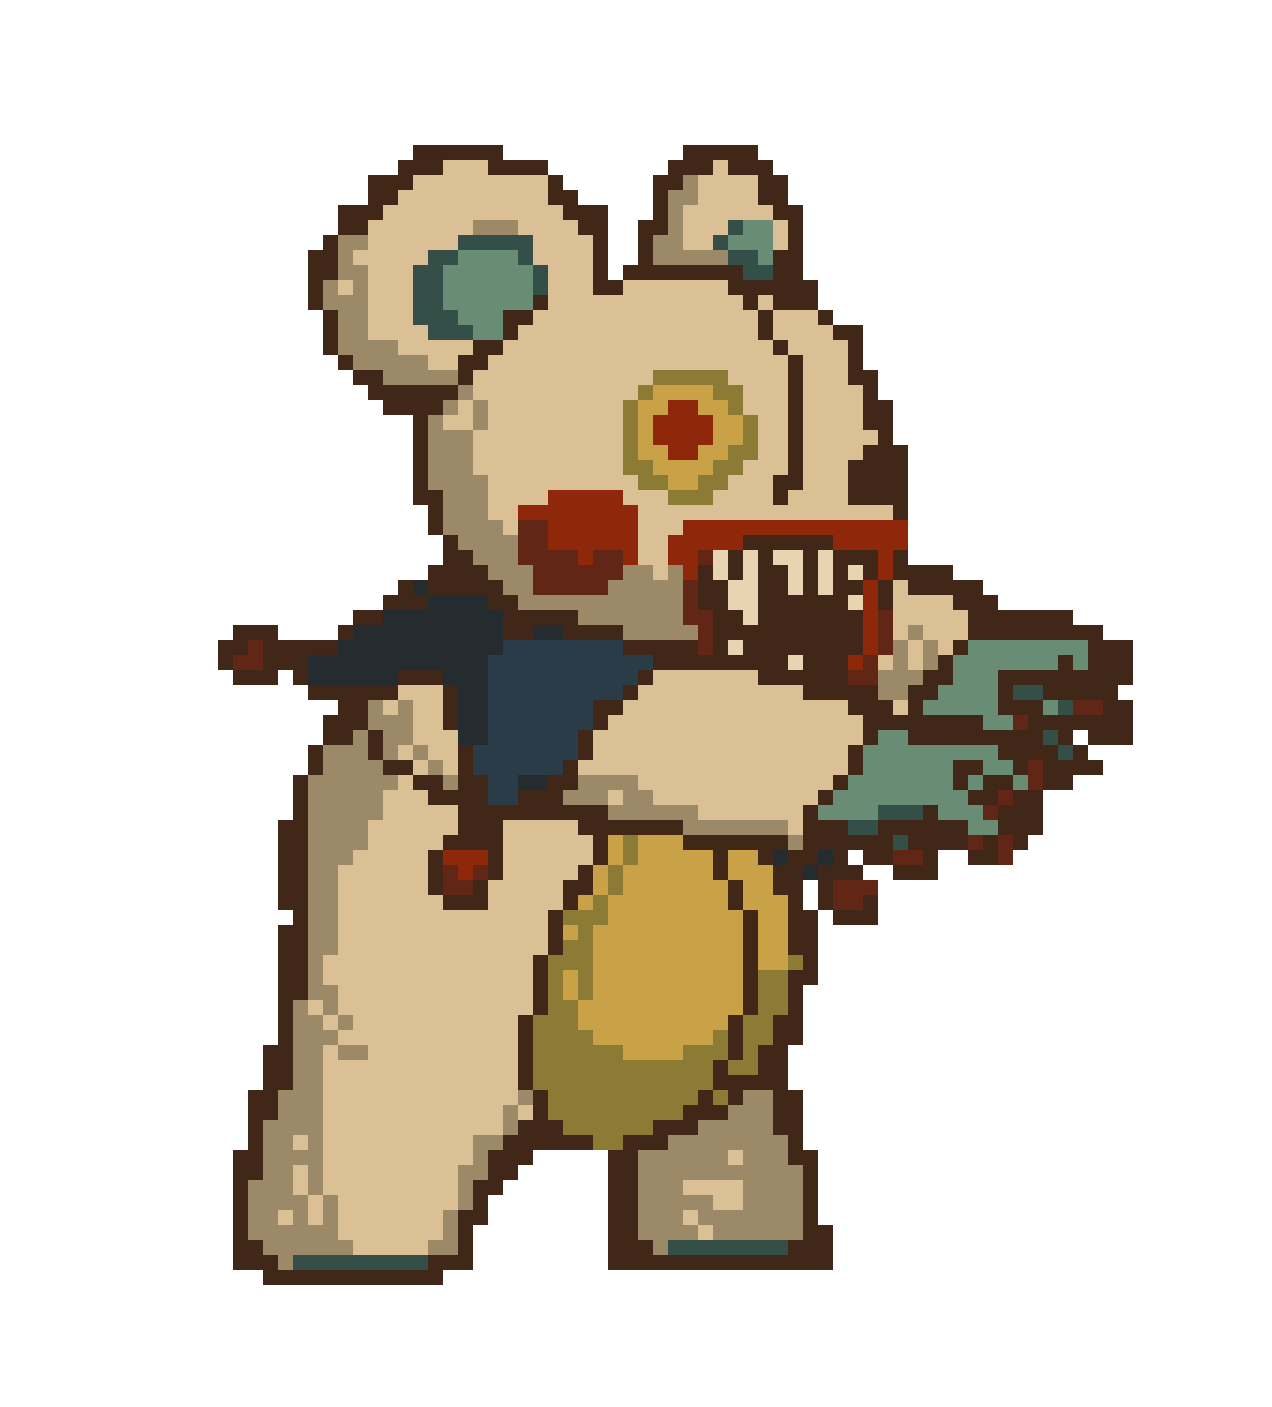
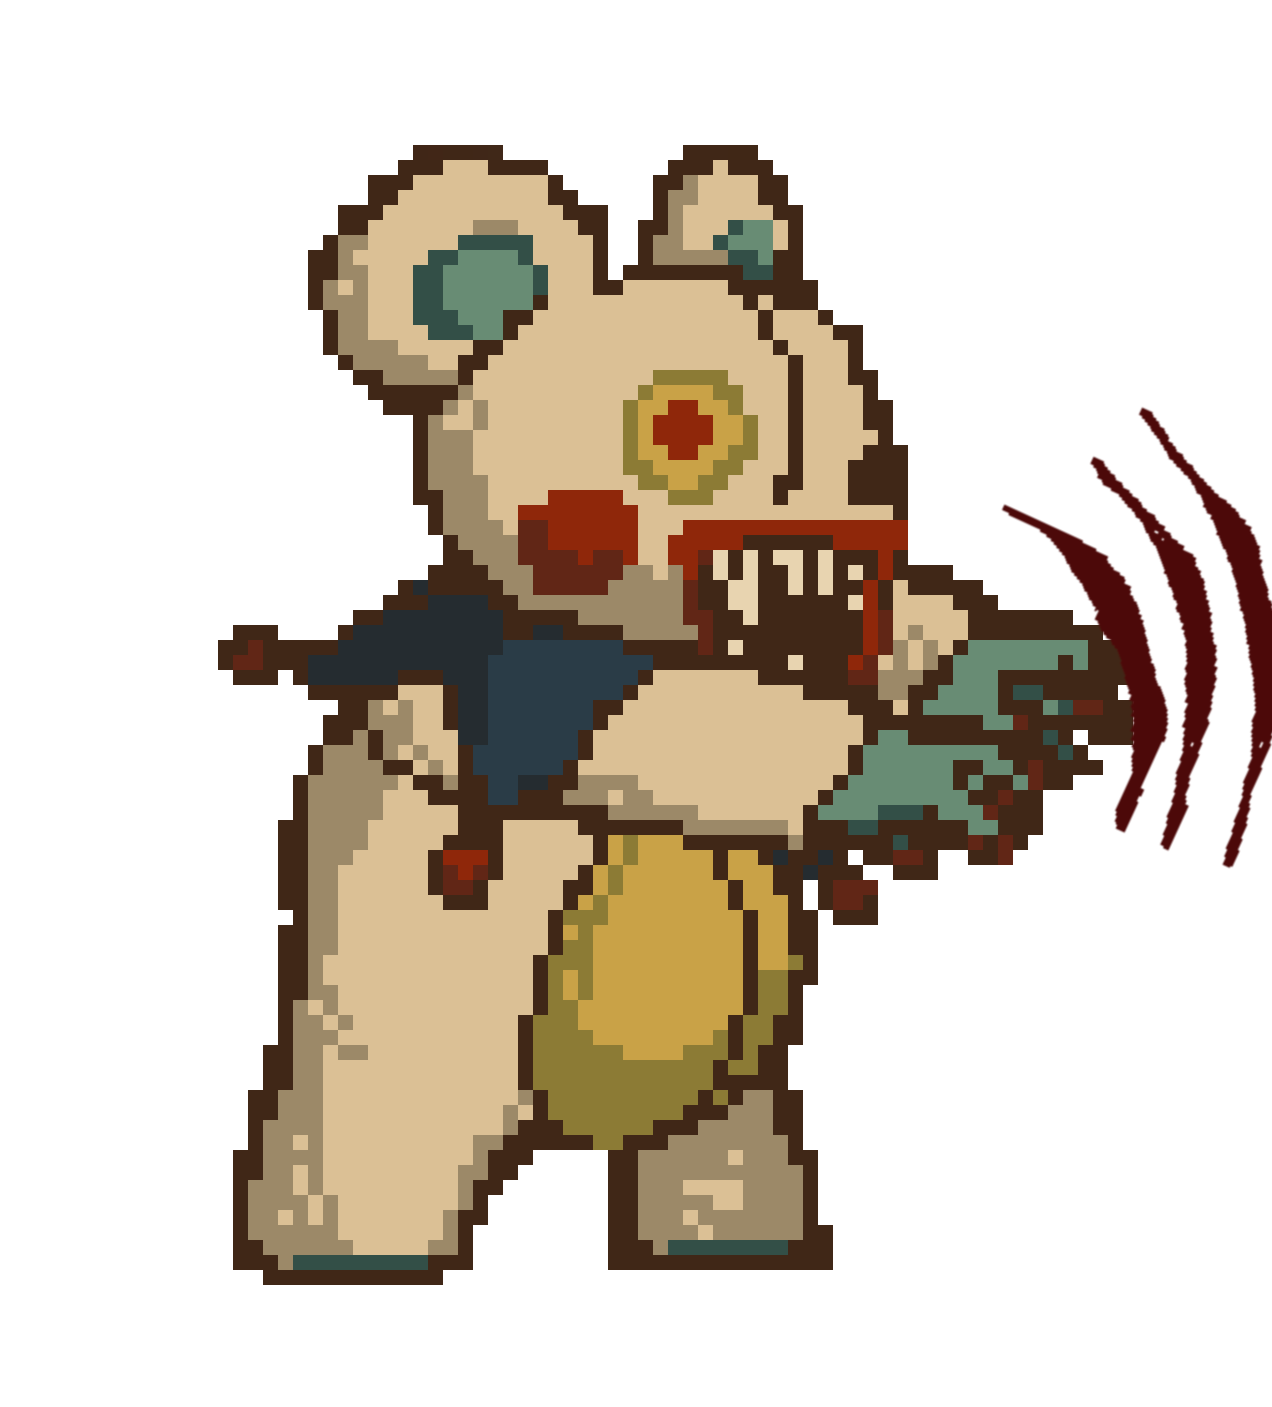
Added logic to boss attack animations, added visual effects to claw attack
- Temporary image for now before art team draws a better one

Changed region(s): [[0.7972, 0.2751, 1.0, 0.6112]]

diff --git a/Zombie Game/Assets/Scripts/Enemy Scripts/TeddyBearScripts/FirstBossTest.cs b/Zombie Game/Assets/Scripts/Enemy Scripts/TeddyBearScripts/FirstBossTest.cs
@@ -26,6 +26,18 @@ public class FirstBossTest : MonoBehaviour
     public Transform firingPoint;
     public GameObject bulletPrefab;
 
+    //Range Attacks
+    private bool isRangeAttacking; 
+
+    //Melee Attacks
+    public Transform attackPoint;
+    public LayerMask hitTarget;
+    public float attackRange = 3f;
+    public int attackDamage = 5;
+    float meleeAttackDelay = 0;
+    private bool isMeleeAttacking;
+
+
     // Animations
     public Animator animator;
     private bool moveRight = false;
@@ -78,6 +90,8 @@ public class FirstBossTest : MonoBehaviour
         health = maxHealth;
         healthBar.SetMaxHealth(maxHealth);
         healthBar.SetHealth(health);
+        isMeleeAttacking = false;
+        isRangeAttacking = false;
     }
 
 
@@ -139,7 +153,7 @@ public class FirstBossTest : MonoBehaviour
                 Flip();
             }
 
-            if (!(Vector2.Distance(target.position, transform.position) <= distanceToShoot))
+            if (!(Vector2.Distance(target.position, transform.position) <= distanceToStop))
             {
                 agent.SetDestination(target.position);
                 animator.SetFloat("Speed", speed);
@@ -151,10 +165,21 @@ public class FirstBossTest : MonoBehaviour
 
         }
 
-        if (target != null && Vector2.Distance(target.position, transform.position) <= distanceToShoot)
+        if (target != null && Vector2.Distance(target.position, transform.position) <= distanceToShoot && timeToFire <= 0f && !isMeleeAttacking)
         {
+            isRangeAttacking = true;
+            animator.SetBool("isSpitting", true);
             Shoot();
         }
+        else if (target != null && timeToFire >= 0f && Vector2.Distance(target.position, transform.position) <= distanceToStop && meleeAttackDelay >= 4 && !isRangeAttacking)
+        {
+            isMeleeAttacking = true;
+            meleeAttackDelay = 0;
+            animator.SetBool("isColliding", true);
+        }
+
+        meleeAttackDelay += Time.deltaTime;
+        timeToFire -= Time.deltaTime;
 
         //transform.position = Vector2.MoveTowards(transform.position, target.position, speed * Time.deltaTime);
     }
@@ -171,16 +196,8 @@ public class FirstBossTest : MonoBehaviour
     //Shooting projectile
     private void Shoot()
     {
-        if (timeToFire <= 0f)
-        {
-            animator.SetBool("isSpitting", true);
-            StartCoroutine(AttackDelay());
-            timeToFire = fireRate;
-        }
-        else
-        {
-            timeToFire -= Time.deltaTime;
-        }
+        StartCoroutine(AttackDelay());
+        timeToFire = fireRate;
     }
 
 
@@ -214,6 +231,7 @@ public class FirstBossTest : MonoBehaviour
             enemyProjectile.GetComponent<Rigidbody2D>().AddForce(firingPoint.up * enemyProjectile.speed, ForceMode2D.Impulse);
         }
         animator.SetBool("isSpitting", false);
+        isRangeAttacking = false;
     }
 
     private Quaternion flipCoordinate(Quaternion q)
@@ -235,6 +253,21 @@ public class FirstBossTest : MonoBehaviour
             }
         }
     }
+
+    IEnumerator MeleeAttack()
+    {
+        animator.SetBool("isColliding", true);
+        Collider2D[] hitTargets = Physics2D.OverlapCircleAll(attackPoint.position, attackRange, hitTarget);
+        foreach(Collider2D target in hitTargets)
+        {
+            /*Include scripts for destroying objects later*/
+            target.GetComponent<PlayerController>().TakeDamage(attackDamage);
+        }
+        animator.SetBool("isColliding", false);
+        yield return new WaitForSeconds(1f);
+        isMeleeAttacking = false;
+    }   
+
 
     private void GetTarget()
     {
@@ -259,8 +292,9 @@ public class FirstBossTest : MonoBehaviour
             playerComponent.TakeDamage(1);
         }
     }
-    void OnDestroy()
+ 
+    void OnDrawGizmosSelected()
     {
-        gc.zombieKilled();
+        Gizmos.DrawWireSphere(attackPoint.position, attackRange);
     }
 }
